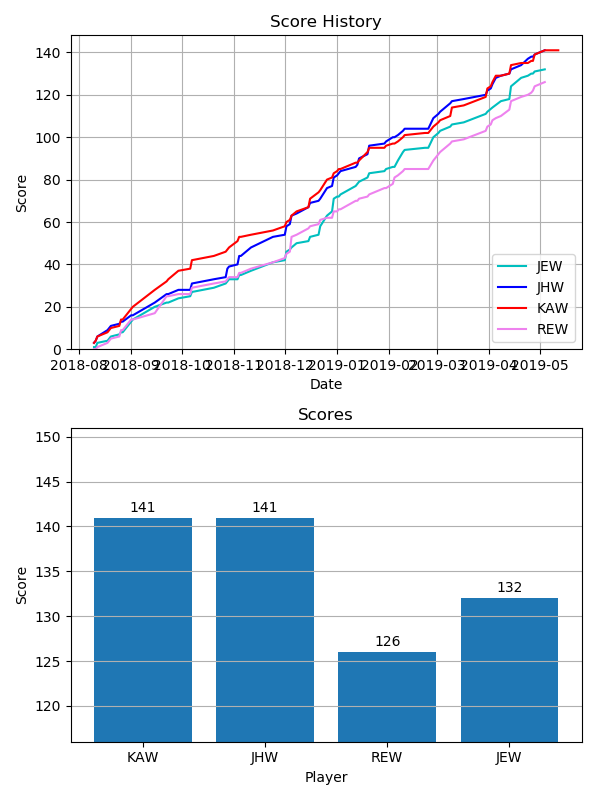
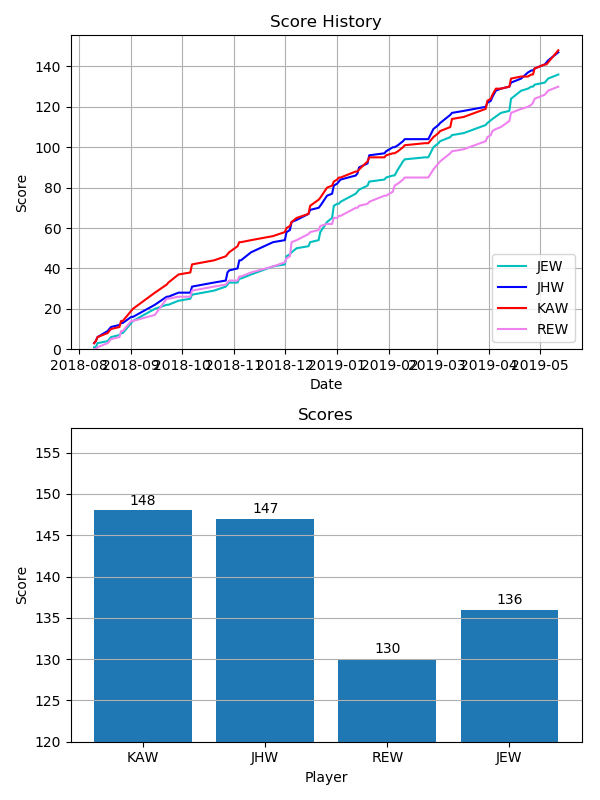
final scores added for 2018-2019 season

diff --git a/README.md b/README.md
@@ -11,5 +11,8 @@
 * Added 'chart' command to show graphical scores
 * See latest scores here https://kwoolter.github.io/WorldCupPredictor/
 
+
 # Screen shots
+Final scores in the 2018-2019 English Premier League:
+<br>
 <img src="https://github.com/kwoolter/WorldCupPredictor/blob/master/scores.png" alt="Scores">
